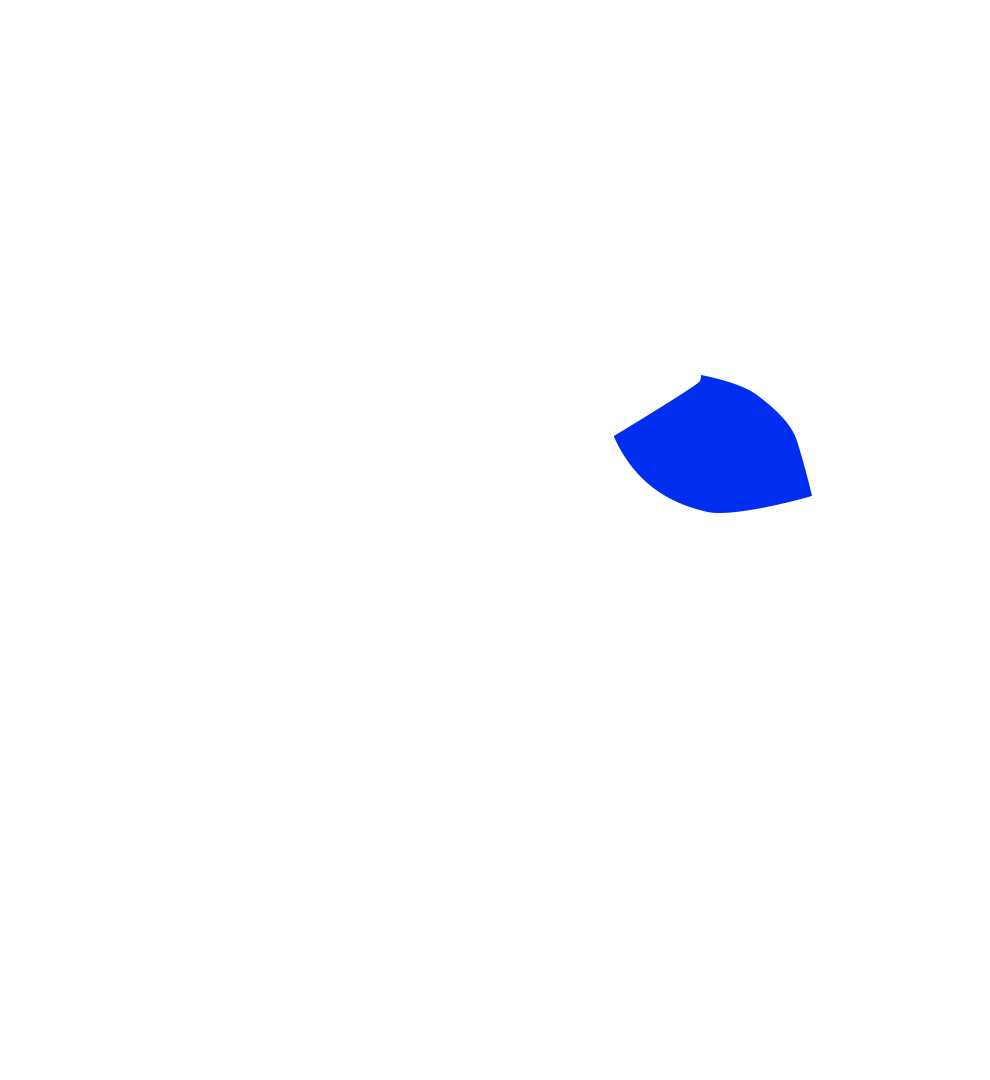
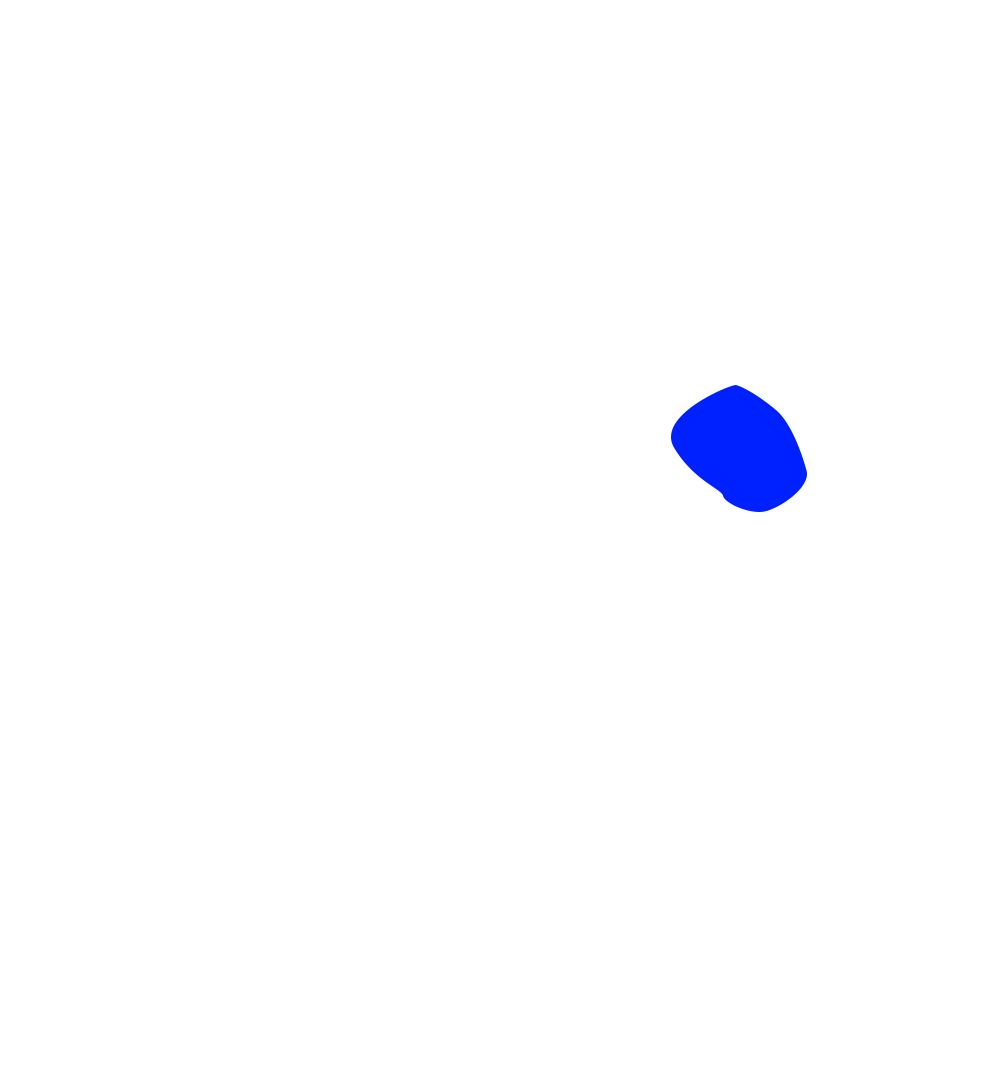
new dogmap

Changed region(s): [[0.6061, 0.3361, 0.8182, 0.4889]]

diff --git a/components/Perro3D.tsx b/components/Perro3D.tsx
@@ -10,8 +10,10 @@ const bodyParts = [
   { id: 'hombro', src: '/img/perro3d/hombro.png', label: 'Hombro' },
   { id: 'codo', src: '/img/perro3d/codo.png', label: 'Codo' },
   { id: 'rodilla', src: '/img/perro3d/rodilla.png', label: 'Rodilla' },
-  { id: 'pata delantera', src: '/img/perro3d/pata_front.png', label: 'Pata frontal' },
-  { id: 'pata trasera', src: '/img/perro3d/pata_back.png', label: 'Pata trasera' },
+  { id: 'tarso', src: '/img/perro3d/tarso.png', label: 'Tarso o Tobillo' },
+  { id: 'carpo', src: '/img/perro3d/carpo.png', label: 'Carpo o Muñeca' },
+  { id: 'mano', src: '/img/perro3d/mano.png', label: 'Mano' },
+  { id: 'pataydedos', src: '/img/perro3d/pataydedos.png', label: 'Pata y Dedos' },
 
 ]
 

diff --git a/components/DogMapWithProducts.tsx b/components/DogMapWithProducts.tsx
@@ -128,7 +128,7 @@ export function DogMapWithProducts({ defaultProducts }: DogMapWithProductsProps)
           {/* 1 - TEXT HAZ CLICK  ULISES -- REMOVER ESTA MIERDA SIN ROMPER LA PAGINA*/}
           <div className="order-1 xl:order-1 flex items-end min-h-12">
             <p className="text-[#F5F5F5] font-sans font-medium text-lg leading-tight text-center">
-              Haz clic en cualquier zona del cuerpo del perro para ver productos ortopédicos específicos para esa área.
+              
             </p>
           </div>
 
